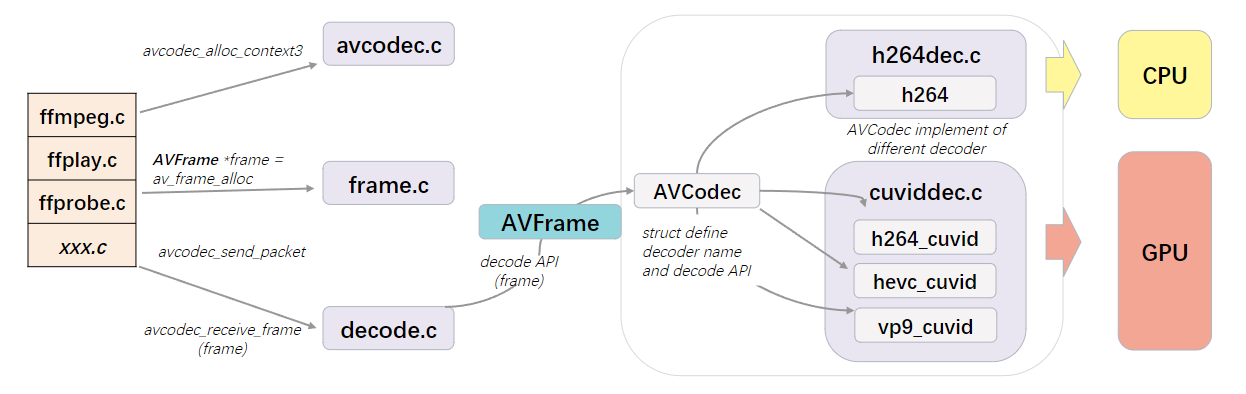
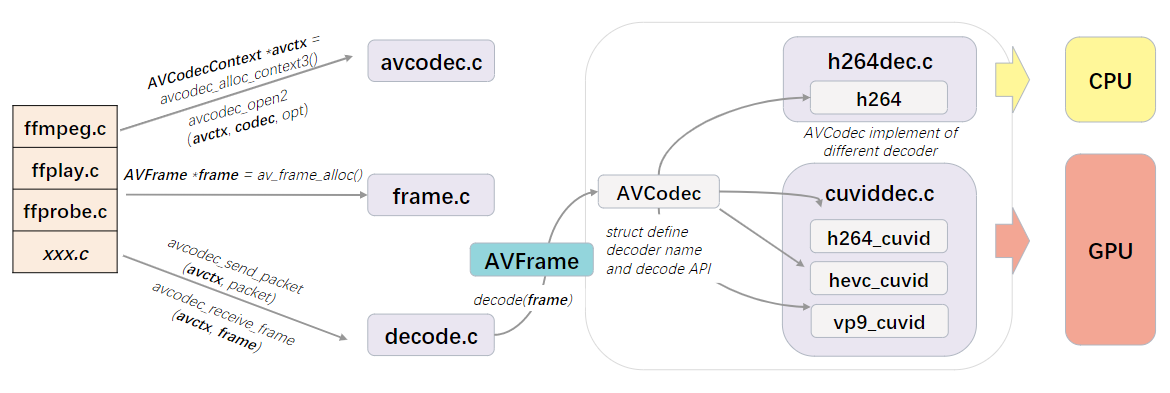
update

Changed region(s): [[0.0, 0.0305, 1.0, 0.9466]]

diff --git a/_posts/2022-09-01-FFMPEG中AVFrame.md b/_posts/2022-09-01-FFMPEG中AVFrame.md
@@ -1,6 +1,6 @@
 ---
 layout: post
-title: FFMPEG中AVFrame                                  # Title of the page
+title: FFMPEG解码和AVFrame                                  # Title of the page
 hide_title: false                                   # Hide the title when displaying the post, but shown in lists of posts
 # feature-img: "assets/img/sample.png"              # Add a feature-image to the post
 # thumbnail: "assets/img/stb_background.png"        # Add a thumbnail image on blog view
@@ -16,16 +16,103 @@ excerpt_separator: <!--more-->
 
 # 1. 背景
 
-ffmpeg解码涉及多个封装完备的源文件，核心数据是**AVFrame**，弄清楚各个子模块围绕着**AVFrame**如何完成准备、加工、使用以及内存复用、生命周期，也就梳理出解码的大致脉络。
+ffmpeg编解码涉及很多源文件，核心数据是**AVFrame**，本文将从视频解码入手，尝试弄清楚代码如何围绕着**AVFrame**完成初始化、编码或解码、使用以及生命周期，就可以梳理出大致脉络。
 
-# 2. 解码
+# 2. 编解码器
 
-先看看解码的组成，BTW，画图时找到一个超赞的[国风调色板](http://color.xunmi.cool)：
+ffmpeg提供的编解码器有很多，可通过`ffmpeg -decoders`列出解码器，`ffmpeg -encoders`列出编码器。每个编解码器通过定义`AVCodec`结构体变量，提供自己的名称，类型如音频AVMEDIA_TYPE_AUDIO、视频AVMEDIA_TYPE_VIDEO、字幕AVMEDIA_TYPE_AUDIO，CodecId如AV_CODEC_ID_H264、AV_CODEC_ID_AC3，以及关键的几个回调函数：
+
+* init
+* close
+* flush
+* receive_packet
+* decode
+* receive_frame
+
+凡是提供了`decode`或`receive_frame`函数指针的`AVCodec`变量，表示其是解码器，否则是编码器。下面是FFMPEG内置的h264解码器(采用CPU解码)的定义，源自libavcodec/h264dec.c，只保留了关键数据：
+{% highlight c linenos %}
+AVCodec ff_h264_decoder = {
+    .name                  = "h264",
+    .long_name             = NULL_IF_CONFIG_SMALL("H.264 / AVC / MPEG-4 AVC / MPEG-4 part 10"),
+    .type                  = AVMEDIA_TYPE_VIDEO,
+    .id                    = AV_CODEC_ID_H264,
+    .priv_data_size        = sizeof(H264Context),
+    .init                  = h264_decode_init,
+    .close                 = h264_decode_end,
+    .decode                = h264_decode_frame,
+    .capabilities          = /*AV_CODEC_CAP_DRAW_HORIZ_BAND |*/ AV_CODEC_CAP_DR1 |
+                             AV_CODEC_CAP_DELAY | AV_CODEC_CAP_SLICE_THREADS |
+                             AV_CODEC_CAP_FRAME_THREADS,
+                               HWACCEL_DXVA2(h264),
+    .caps_internal         = FF_CODEC_CAP_INIT_THREADSAFE | FF_CODEC_CAP_EXPORTS_CROPPING |
+                             FF_CODEC_CAP_ALLOCATE_PROGRESS | FF_CODEC_CAP_INIT_CLEANUP,
+    .flush                 = h264_decode_flush,
+    .update_thread_context = ONLY_IF_THREADS_ENABLED(ff_h264_update_thread_context),
+    .profiles              = NULL_IF_CONFIG_SMALL(ff_h264_profiles),
+    .priv_class            = &h264_class,
+};
+{% endhighlight %}
+
+FFMPEG也支持Nvidia NvCodec硬件编解码h264、h265、av1、vp9等多种视频格式，通过在libavcodec/cuviddec.c中定义了为每一种视频格式分别定义不同的`AVCodec`变量：
+
+* ff_av1_cuvid_decoder
+* ff_h264_cuvid_decoder
+* ff_hevc_cuvid_decoder
+* ff_vp9_cuvid_decoder
+
+每个变量中的`name`字符串对应`ffmpeg -decoders | grep cuvid`列举出来的解码器名称：
+
+* av1_cuvid
+* h264_cuvid
+* hevc_cuvid
+* vp9_cuvid
+
+同时在libavcodec/allcodecs.c中提供API来访问收集了所有`AVCodec`变量的数组`codec_list`。
+
+# 3. 解码
+
+下面这张图画出大致解码过程中的几个关键源文件及关系，BTW，画图时找到一个超赞的[国风调色板](http://color.xunmi.cool)：
 
 ![](/assets/img/post/2022-09-01-ffmpeg-avframe/ffmpeg_decoder.png)
 
-大概是ffmpeg.c或自己开发的相关应用，先调用`avcodec_alloc_context3`
+## 3.1. 初始化
 
+首先ffmpeg.c/ffplay.c/ffprobe.c或是你基于ffmpeg库开发的相关xxx.c，都要先调用`avcodec_alloc_context3`拿到一个`AVCodecContext *`的返回值`avctx`，顾名思义是一个音视频编解码器的上下文。接下来为将要解码的数据流选择解码器，也就是一个`AVCodec`实例`codec`。涉及到的API有：
+
+* allcodecs.c中的`avcodec_find_decoder()`
+* allcodecs.c中的`avcodec_find_decoder_by_name()`
+
+随后通过`av_dict_set()`给`codec`准备参数，存储到`AVDictionary`类型的字典变量`opt`。最后调用`avcodec_open2()`把`avctx`、`codec`、`opt`捆绑到一起。
+
+**代码示例-裁剪自ffplay.c**
+
+{% highlight c linenos %}
+avctx = avcodec_alloc_context3(NULL);
+ret = avcodec_parameters_to_context(avctx, ic->streams[stream_index]->codecpar);
+codec = avcodec_find_decoder(avctx->codec_id);
+
+switch(avctx->codec_type){
+    case AVMEDIA_TYPE_AUDIO   : is->last_audio_stream    = stream_index; forced_codec_name =    audio_codec_name; break;
+    case AVMEDIA_TYPE_SUBTITLE: is->last_subtitle_stream = stream_index; forced_codec_name = subtitle_codec_name; break;
+    case AVMEDIA_TYPE_VIDEO   : is->last_video_stream    = stream_index; forced_codec_name =    video_codec_name; break;
+}
+if (forced_codec_name)
+    codec = avcodec_find_decoder_by_name(forced_codec_name);
+
+avctx->codec_id = codec->id;
+opts = filter_codec_opts(codec_opts, avctx->codec_id, ic, ic->streams[stream_index], codec);
+if (!av_dict_get(opts, "threads", NULL, 0))
+    av_dict_set(&opts, "threads", "auto", 0);
+if ((ret = avcodec_open2(avctx, codec, &opts)) < 0) {
+    goto fail;
+}
+{% endhighlight %}
+
+## 3.2. 解码
+
+调用`avcodec_send_packet()`给`avctx`传入新的压缩包，同时调用`avcodec_receive_frame()`读取原始图像。
+
+**代码示例**
 {% highlight c linenos %}
 static int decode(AVCodecContext *avctx, AVFrame *frame, int *got_frame, AVPacket *pkt)
 {
@@ -51,5 +138,16 @@ static int decode(AVCodecContext *avctx, AVFrame *frame, int *got_frame, AVPacke
 }
 {% endhighlight %}
 
-# 3. 过程
+# 4. AVFrame
 
+`AVFrame`是FFMPEG中解码后的每帧图像或声音的基本单元。
+
+## 4.3. 计算LineSize
+
+[libutils/imgutils.c](https://github.com/FFmpeg/FFmpeg/blob/n4.4.2/libavutil/imgutils.c)提供`av_image_fill_linesizes` API根据给定图像类型、宽，计算对应linesize填写到传入的数组。
+
+其中依赖[libutils/pixdesc.c](https://github.com/FFmpeg/FFmpeg/blob/n4.4.2/libavutil/pixdesc.c)中全局struct数组：`av_pix_fmt_descriptors`，她描述了每种格式各通道数据的布局，比如：
+
+* Planar平面模式，比如YU12(也叫I420)，Y/U/V各在一个独立的连续存储空间。
+* Semi-Planar半平面模式，比如NV12，Y和UV分别在独立的连续空间，而UV(CbCr)交错存储，而不是分为三个独立空间。
+* Packeted打包模式，比如YUYV422各RGB，每个Y和UV相邻，三个通道都没有独立的连续空间。
